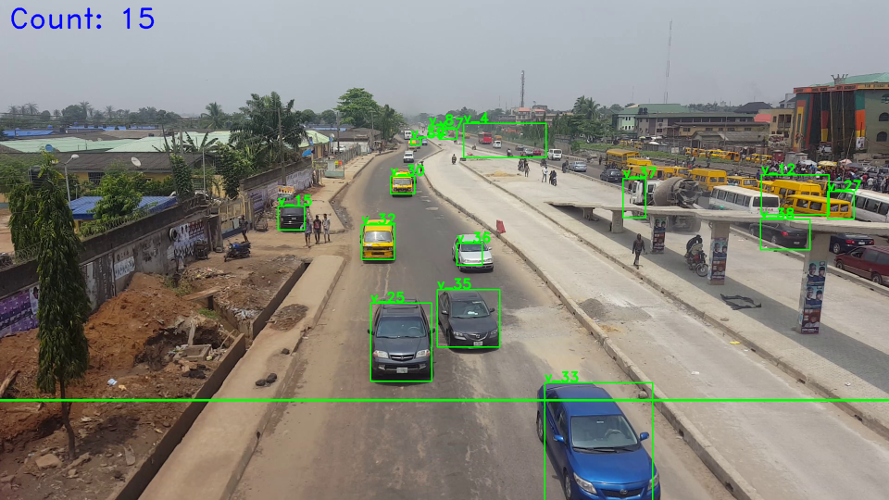
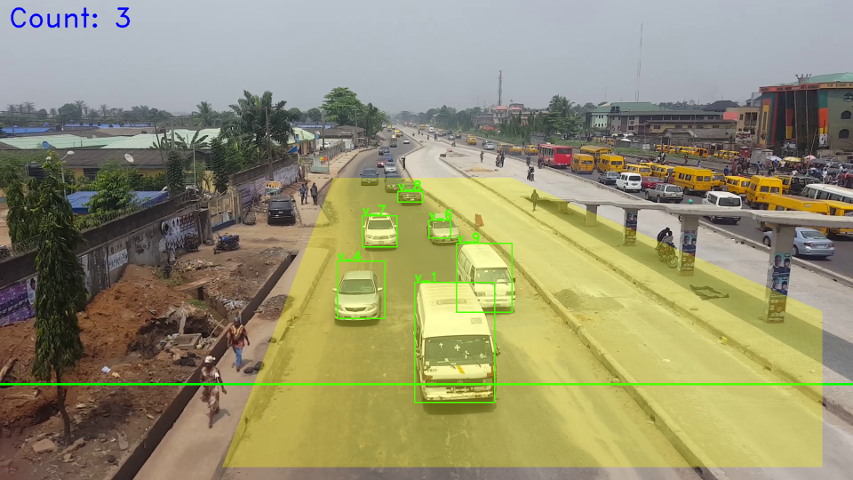
Update readme

diff --git a/README.md b/README.md
@@ -1,22 +1,63 @@
 # Video-based Vehicle Counting System
-My final year project (B.Sc Computer Science).
-
 ![](vehicle_counting.png)
-
-## Abstract
-Traffic congestion is a major challenge in many cities around the world, especially cities in developing nations where road networks are poorly designed and cities overpopulated. Collecting quality data about the flow of traffic is crucial in traffic management, as jams can be anticipated and prevented, and vehicles can be intelligently directed to routes with less traffic. This project aims to improve the traffic situation on, and condition of Nigerian roads by implementing a vehicle counting system that provides accurate data for traffic control agencies and systems. The significances of this system include estimating traffic flow on a given road per time, predicting future traffic conditions, understanding traffic patterns and the factors that affect them, and optimizing existing manual traffic management systems. The project was developed using the Python programming language and OpenCV (an open-source library of programming functions mainly aimed at real-time Computer Vision).
 
 ## Setup
 - Install Python 3 on your machine.
 - Clone this repo `git@github.com:nicholaskajoh/Vehicle-Counting.git`.
-- Download the [YOLO v3 weights](https://pjreddie.com/media/files/yolov3.weights) and place it in the [detectors folder](/detectors).
-- Get video footage of a traffic scene (*see link to sample video below*).
+- Get video footage of a traffic scene ([sample videos](https://drive.google.com/drive/folders/1h8ANowkfm4TXGDg7R5Z6rnosySVc-Ht7?usp=sharing)).
 - Create and/or use a virtual environment.
 - Run `pip install -r requirements.txt` to install dependencies.
-- Run `python 2_Vehicle_Counting.py` (alternate implementations in *0_Vehicle_Counting.py* and *1_Vehicle_Counting.py*).
+
+## Run
+
+### Configuration
+```
+usage: Vehicle_Counting.py [-h] [--droi DROI] [--showdroi] [--mctf MCTF]
+                           [--di DI] [--detector DETECTOR] [--tracker TRACKER]
+                           video
+
+positional arguments:
+  video                relative/absolute path to video of traffic scene
+
+optional arguments:
+  -h, --help           show this help message and exit
+  --droi DROI          specify a detection region of interest (ROI) i.e a set
+                       of vertices that represent the area (polygon) where you
+                       want detections to be made (format:
+                       1,2|3,4|5,6|7,8|9,10 default: 0,0|frame_width,0|frame_w
+                       idth,frame_height|0,frame_height [i.e the whole video
+                       frame])
+  --showdroi           display/overlay the detection roi on the video
+  --mctf MCTF          maximum consecutive tracking failures i.e number of
+                       tracking failures before the tracker concludes the
+                       tracked object has left the frame
+  --di DI              detection interval i.e number of frames before
+                       detection is carried out again (in order to find new
+                       vehicles and update the trackers of old ones)
+  --detector DETECTOR  select a model/algorithm to use for vehicle detection
+                       (options: yolo, haarc, bgsub, ssd | default: yolo)
+  --tracker TRACKER    select a model/algorithm to use for vehicle tracking
+                       (options: csrt, kcf, camshift | default: kcf)
+```
+
+### Notes
+- To use the `yolo` detector, download the [YOLO v3 weights](https://pjreddie.com/media/files/yolov3.weights) and place it in the [detectors/yolo folder](/detectors/yolo).
+- To use the `ssd` detector, download this [pre-trained model](https://drive.google.com/file/d/0BzKzrI_SkD1_WVVTSmQxU0dVRzA/view) and place it in the [detectors/ssd folder](/detectors/ssd).
+
+### Examples
+Use defaults:
+
+```
+python Vehicle_Counting.py "./videos/sample_traffic_scene.mp4"
+```
+
+Custom configuration:
+
+```
+python Vehicle_Counting.py "./videos/sample_traffic_scene.mp4" --droi "750,400|1150,400|1850,700|1850,1050|500,1050" --showdroi --detector "haarc" --tracker "csrt --di 5 --mctf 15"
+```
+
+__NB:__ You can press the `s` key when the program is running to capture a screenshot. The images are saved in the [screenshots folder](/screenshots).
 
 ## How it works
-The vehicle counting system is made up of three main components: a detector, tracker and counter. The detector identifies vehicles in a given frame of video and returns a list of bounding boxes around the vehicles to the tracker. The tracker uses the bounding boxes to obtain regions of interest (ROIs) and uses them to track the vehicles in subsequent frames. The detector is also used to update tracker objects periodically to ensure that they are still tracking the vehicles correctly. The counter draws a counting lines across the road. When a vehicle crosses the line, the vehicle count is incremented.
-
-## Sample video files
-Download link: https://drive.google.com/drive/folders/1h8ANowkfm4TXGDg7R5Z6rnosySVc-Ht7?usp=sharing.
+The vehicle counting system is made up of three main components: a detector, tracker and counter. The detector identifies vehicles in a given frame of video and returns a list of bounding boxes around the vehicles to the tracker. The tracker uses the bounding boxes to track the vehicles in subsequent frames. The detector is also used to update trackers periodically to ensure that they are still tracking the vehicles correctly. The counter draws a counting lines across the road. When a vehicle crosses the line, the vehicle count is incremented.
